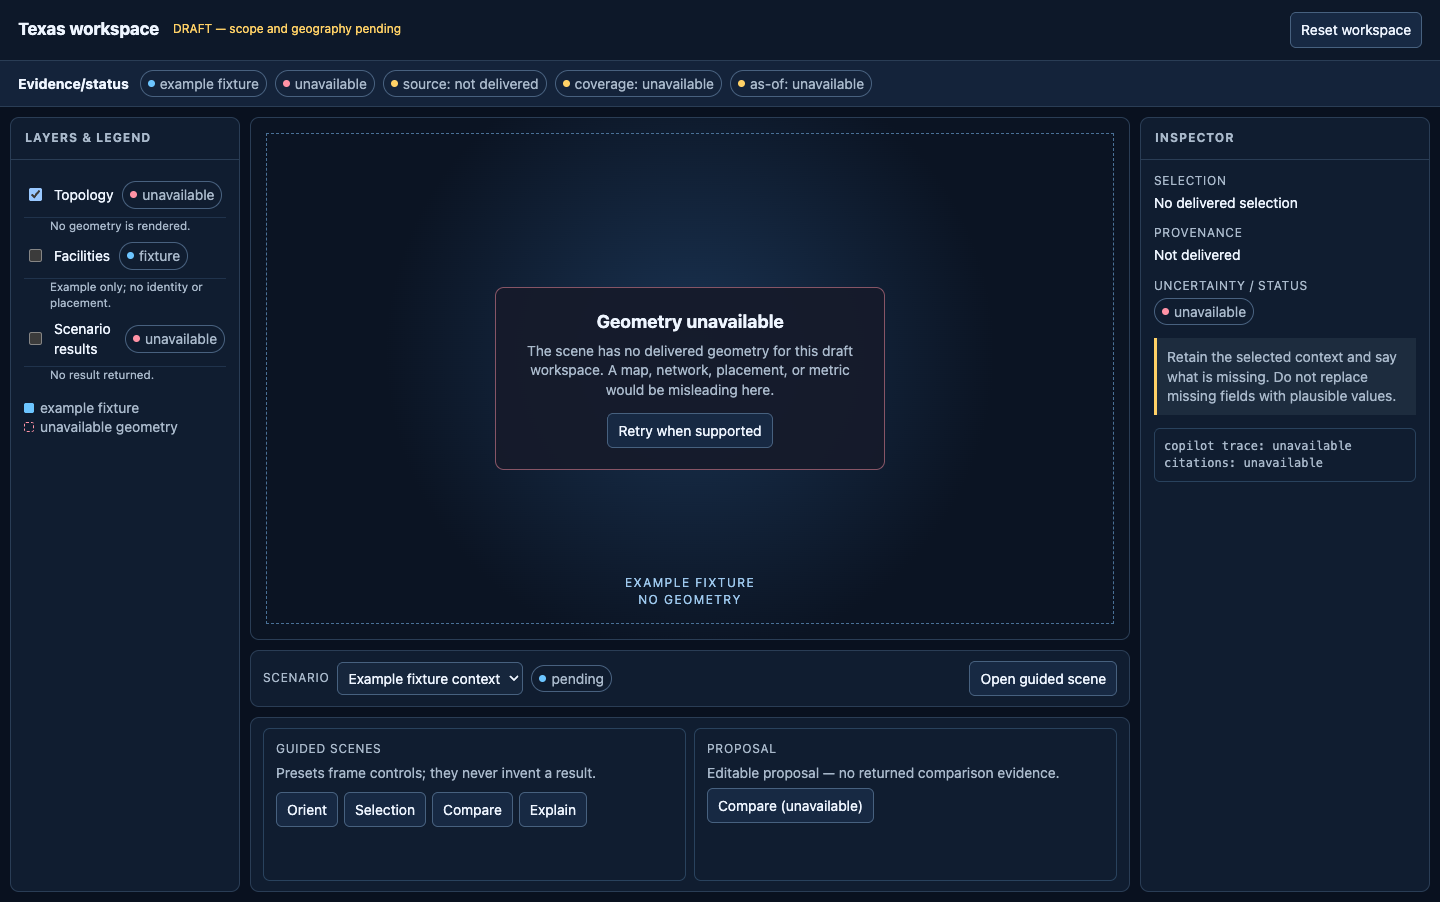
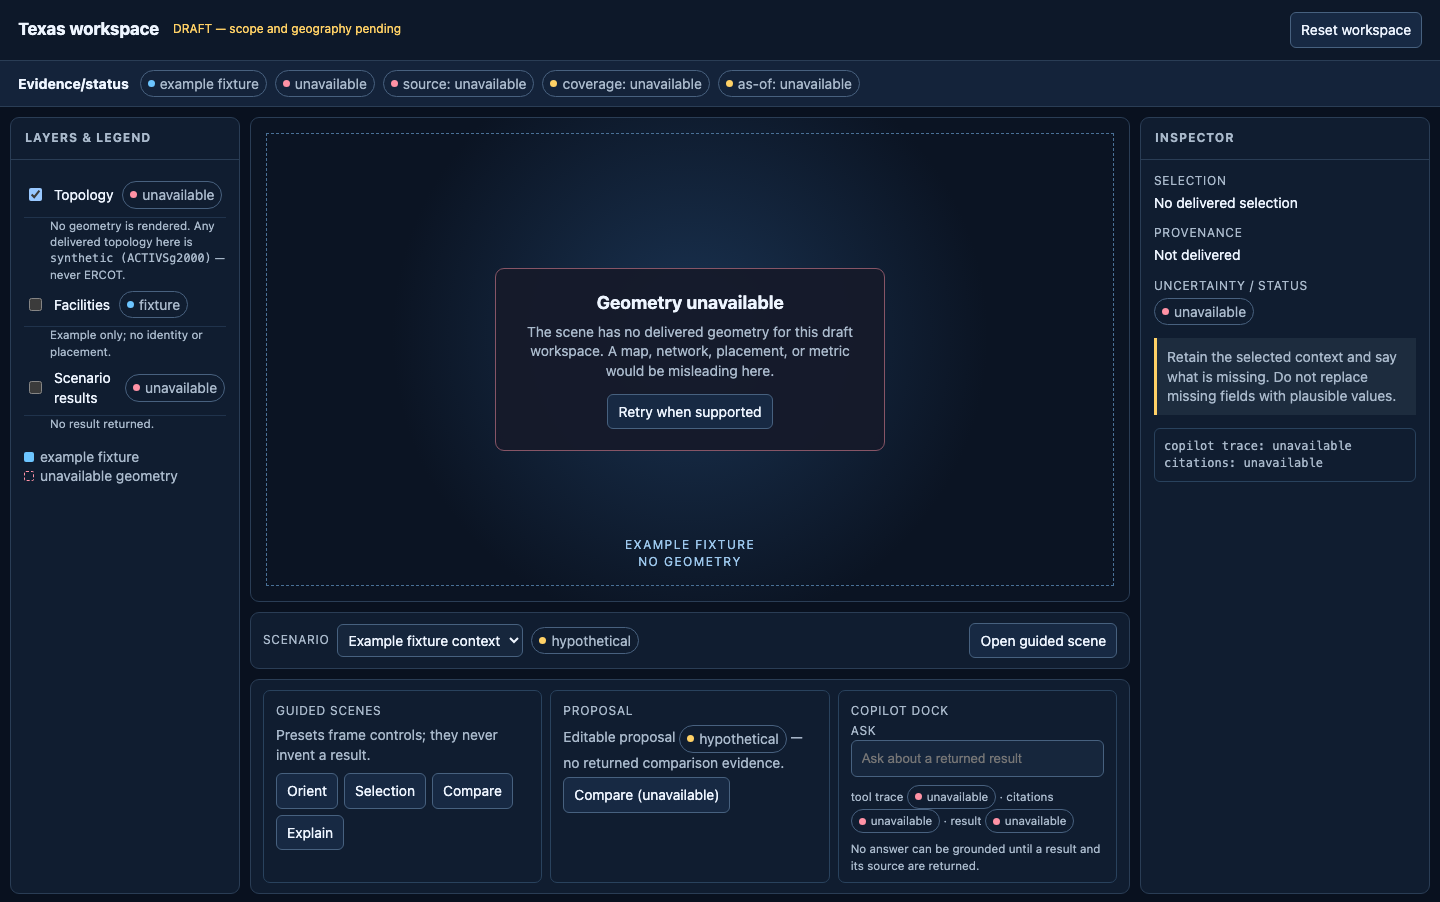
docs(texas-ia): make the prototype meet the IA's own acceptance list
Addresses review on #179: finding 4 (prototype vs acceptance criteria).

The shipped HTML contradicted the acceptance list in the same PR. Fixes, all
in docs/design/texas-workspace-prototype.html:

- "source: not delivered" -> "source: unavailable": the frozen token is
  `unavailable`; the ad-hoc phrasing was in neither vocabulary.
- the scenario chip "pending" -> "hypothetical": per the IA's own requested-
  wording table, a pending proposal is UI status `hypothetical`. "pending" has
  no home in either frozen set.
- the copilot dock the acceptance list claims is "represented in the shell"
  now exists: the `.dock` CSS had no markup at all. It carries a focusable Ask
  field and unavailable tool-trace, citation and result states.
- the topology layer row names the synthetic identity, "synthetic
  (ACTIVSg2000)" and never ERCOT (CLAUDE.md:37).
- mobile status strip: `overflow-x:auto` clipped two of the five status chips
  off-screen with no scroll affordance, contradicting "the evidence/status
  strip remains visible in either layout". It now wraps.
- the desktop lower row is 215px so the dock is not clipped at 1440x900.

Both PNGs re-captured headlessly from the committed HTML with the recipe now
documented in the IA (Chrome headless shell; 1440x902, and 390 CSS px at DPR 2
with a window tall enough for the whole column).

diff --git a/docs/design/texas-workspace-prototype.html b/docs/design/texas-workspace-prototype.html
@@ -12,22 +12,22 @@
     .strip { display:flex; gap:8px; align-items:center; padding:9px 18px; border-bottom:1px solid var(--line); background:#14233a; } .strip strong { margin-right:3px; } .chip { display:inline-flex; gap:5px; align-items:center; padding:3px 7px; border:1px solid #48617f; border-radius:999px; color:var(--muted); white-space:nowrap; } .chip::before { content:""; width:7px; height:7px; border-radius:50%; background:var(--amber); } .chip.unavailable::before { background:var(--rose); } .chip.fixture::before { background:var(--blue); }
     .layout { display:grid; grid-template-columns:230px minmax(420px, 1fr) 290px; gap:10px; padding:10px; height:calc(100vh - 105px); min-height:610px; } .panel { background:var(--panel); border:1px solid var(--line); border-radius:9px; overflow:hidden; } .panel h2 { font-size:12px; text-transform:uppercase; letter-spacing:.08em; color:var(--muted); margin:0; padding:12px 14px; border-bottom:1px solid var(--line); } .body { padding:13px; }
     .layers label { display:flex; align-items:center; gap:9px; padding:8px 1px; border-bottom:1px solid #20334c; } .layers small { color:var(--muted); display:block; margin-left:26px; } .legend { margin-top:14px; color:var(--muted); } .swatch { display:inline-block; width:10px; height:10px; margin-right:6px; background:var(--blue); border-radius:2px; } .swatch.empty { background:transparent; border:1px dashed var(--rose); }
-    .center { display:grid; grid-template-rows:minmax(310px, 1fr) auto 175px; gap:10px; min-width:0; } .viewport { position:relative; display:grid; place-items:center; background:radial-gradient(circle at 50% 45%, #1a3352, #0b1423 58%); } .watermark { position:absolute; inset:15px; border:1px dashed #497096; color:#9dc8ed; display:grid; align-content:end; padding:14px; text-align:center; letter-spacing:.12em; font-size:12px; pointer-events:none; } .unavailable-card { z-index:1; width:min(390px, 74%); text-align:center; padding:21px; border:1px solid #875566; border-radius:9px; background:#151a2aee; } .unavailable-card h1 { margin:0 0 7px; font-size:18px; } .unavailable-card p { margin:0 0 13px; color:var(--muted); }
-    .controls, .lower { display:flex; align-items:center; gap:8px; padding:10px 12px; } select { min-width:158px; background:#16263c; color:var(--text); border:1px solid #47617f; border-radius:6px; padding:6px; } .lower { align-items:stretch; } .scene, .proposal { flex:1; padding:12px; border:1px solid #29425d; border-radius:7px; } .scene p, .proposal p { margin:5px 0; color:var(--muted); } .scene-buttons { display:flex; flex-wrap:wrap; gap:6px; margin-top:9px; }
+    .center { display:grid; grid-template-rows:minmax(290px, 1fr) auto 215px; gap:10px; min-width:0; } .viewport { position:relative; display:grid; place-items:center; background:radial-gradient(circle at 50% 45%, #1a3352, #0b1423 58%); } .watermark { position:absolute; inset:15px; border:1px dashed #497096; color:#9dc8ed; display:grid; align-content:end; padding:14px; text-align:center; letter-spacing:.12em; font-size:12px; pointer-events:none; } .unavailable-card { z-index:1; width:min(390px, 74%); text-align:center; padding:21px; border:1px solid #875566; border-radius:9px; background:#151a2aee; } .unavailable-card h1 { margin:0 0 7px; font-size:18px; } .unavailable-card p { margin:0 0 13px; color:var(--muted); }
+    .controls, .lower { display:flex; align-items:center; gap:8px; padding:10px 12px; } select { min-width:158px; background:#16263c; color:var(--text); border:1px solid #47617f; border-radius:6px; padding:6px; } .lower { align-items:stretch; } .scene, .proposal, .dock { flex:1; padding:12px; border:1px solid #29425d; border-radius:7px; } .scene p, .proposal p, .dock p { margin:5px 0; color:var(--muted); } .scene-buttons { display:flex; flex-wrap:wrap; gap:6px; margin-top:9px; }
     .key { color:var(--muted); font-size:12px; text-transform:uppercase; letter-spacing:.06em; } .value { margin:3px 0 13px; } .callout { border-left:3px solid var(--amber); padding:9px 10px; background:#1d2c3e; color:var(--muted); } .trace { margin-top:13px; padding:9px; border:1px solid #29425d; border-radius:6px; color:var(--muted); font-family:ui-monospace, monospace; font-size:12px; }
     .dock { position:relative; } .dock input { width:100%; padding:10px; color:var(--text); background:#16263c; border:1px solid #47617f; border-radius:6px; } .dock small { display:block; color:var(--muted); margin-top:8px; }
-    @media (max-width:700px) { .top { flex-wrap:wrap; padding:10px 12px; } .top .push { margin-left:0; } .strip { padding:8px 12px; overflow-x:auto; align-items:flex-start; } .layout { grid-template-columns:minmax(0,1fr); grid-template-rows:auto; height:auto; min-height:0; padding:8px; } .center { grid-template-rows:350px auto auto; } .viewport { min-height:350px; } .controls { flex-wrap:wrap; } .controls .push { width:100%; margin-left:0; } .lower { display:grid; grid-template-columns:1fr; } .unavailable-card { width:86%; } }
+    @media (max-width:700px) { .top { flex-wrap:wrap; padding:10px 12px; } .top .push { margin-left:0; } .strip { padding:8px 12px; flex-wrap:wrap; align-items:flex-start; } .layout { grid-template-columns:minmax(0,1fr); grid-template-rows:auto; height:auto; min-height:0; padding:8px; } .center { grid-template-rows:350px auto auto; } .viewport { min-height:350px; } .controls { flex-wrap:wrap; } .controls .push { width:100%; margin-left:0; } .lower { display:grid; grid-template-columns:1fr; } .unavailable-card { width:86%; } }
   </style>
 </head>
 <body>
   <header class="top"><div class="brand">Texas workspace</div><span class="draft">DRAFT — scope and geography pending</span><button class="push" type="button">Reset workspace</button></header>
-  <div class="strip" aria-label="Evidence and status strip"><strong>Evidence/status</strong><span class="chip fixture">example fixture</span><span class="chip unavailable">unavailable</span><span class="chip">source: not delivered</span><span class="chip">coverage: unavailable</span><span class="chip">as-of: unavailable</span></div>
+  <div class="strip" aria-label="Evidence and status strip"><strong>Evidence/status</strong><span class="chip fixture">example fixture</span><span class="chip unavailable">unavailable</span><span class="chip unavailable">source: unavailable</span><span class="chip">coverage: unavailable</span><span class="chip">as-of: unavailable</span></div>
   <main class="layout">
-    <aside class="panel layers"><h2>Layers &amp; legend</h2><div class="body"><label><input type="checkbox" checked> Topology <span class="chip unavailable">unavailable</span></label><small>No geometry is rendered.</small><label><input type="checkbox"> Facilities <span class="chip fixture">fixture</span></label><small>Example only; no identity or placement.</small><label><input type="checkbox"> Scenario results <span class="chip unavailable">unavailable</span></label><small>No result returned.</small><p class="legend"><span class="swatch"></span>example fixture<br><span class="swatch empty"></span>unavailable geometry</p></div></aside>
+    <aside class="panel layers"><h2>Layers &amp; legend</h2><div class="body"><label><input type="checkbox" checked> Topology <span class="chip unavailable">unavailable</span></label><small>No geometry is rendered. Any delivered topology here is <code>synthetic (ACTIVSg2000)</code> — never ERCOT.</small><label><input type="checkbox"> Facilities <span class="chip fixture">fixture</span></label><small>Example only; no identity or placement.</small><label><input type="checkbox"> Scenario results <span class="chip unavailable">unavailable</span></label><small>No result returned.</small><p class="legend"><span class="swatch"></span>example fixture<br><span class="swatch empty"></span>unavailable geometry</p></div></aside>
     <section class="center" aria-label="Workspace scene">
       <section class="panel viewport" aria-label="Unavailable geometry viewport"><div class="watermark">EXAMPLE FIXTURE<br>NO GEOMETRY</div><div class="unavailable-card"><h1>Geometry unavailable</h1><p>The scene has no delivered geometry for this draft workspace. A map, network, placement, or metric would be misleading here.</p><button type="button">Retry when supported</button></div></section>
-      <section class="panel controls"><span class="key">Scenario</span><select aria-label="Scenario"><option>Example fixture context</option></select><span class="chip fixture">pending</span><button class="push" type="button">Open guided scene</button></section>
-      <section class="panel lower"><div class="scene"><div class="key">Guided scenes</div><p>Presets frame controls; they never invent a result.</p><div class="scene-buttons"><button>Orient</button><button>Selection</button><button>Compare</button><button>Explain</button></div></div><div class="proposal"><div class="key">Proposal</div><p>Editable proposal — no returned comparison evidence.</p><button type="button">Compare (unavailable)</button></div></section>
+      <section class="panel controls"><span class="key">Scenario</span><select aria-label="Scenario"><option>Example fixture context</option></select><span class="chip">hypothetical</span><button class="push" type="button">Open guided scene</button></section>
+      <section class="panel lower"><div class="scene"><div class="key">Guided scenes</div><p>Presets frame controls; they never invent a result.</p><div class="scene-buttons"><button>Orient</button><button>Selection</button><button>Compare</button><button>Explain</button></div></div><div class="proposal"><div class="key">Proposal</div><p>Editable proposal <span class="chip">hypothetical</span> — no returned comparison evidence.</p><button type="button">Compare (unavailable)</button></div><div class="dock"><div class="key">Copilot dock</div><label for="ask-prompt" class="key">Ask</label><input id="ask-prompt" type="text" readonly placeholder="Ask about a returned result"><small>tool trace <span class="chip unavailable">unavailable</span> · citations <span class="chip unavailable">unavailable</span> · result <span class="chip unavailable">unavailable</span></small><small>No answer can be grounded until a result and its source are returned.</small></div></section>
     </section>
     <aside class="panel"><h2>Inspector</h2><div class="body"><div class="key">Selection</div><div class="value">No delivered selection</div><div class="key">Provenance</div><div class="value">Not delivered</div><div class="key">Uncertainty / status</div><div class="value"><span class="chip unavailable">unavailable</span></div><div class="callout">Retain the selected context and say what is missing. Do not replace missing fields with plausible values.</div><div class="trace">copilot trace: unavailable<br>citations: unavailable</div></div></aside>
   </main>
